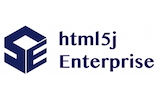
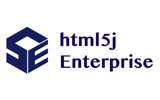
えんぷらの名称とロゴ変更、TV部追加

diff --git a/index.html b/index.html
@@ -161,6 +161,12 @@
             <img src="img/club/banner_epublishing.png" alt=""></a>
           <p>Web技術を活用した次世代出版の可能性を、技術面と産業面の双方から探ります。
         </section>
+        <section>
+          <a href="">
+            <h4>TV部</h4>
+            <img src="img/club/banner_tv.jpg" alt=""></a>
+          <p>TVに関わるすべてのもの(Androidアプリのセカンドスクリーンやセットトップボックスなども)をターゲットに活動しています。
+        </section>
       </div>
     </section>
   </section>
